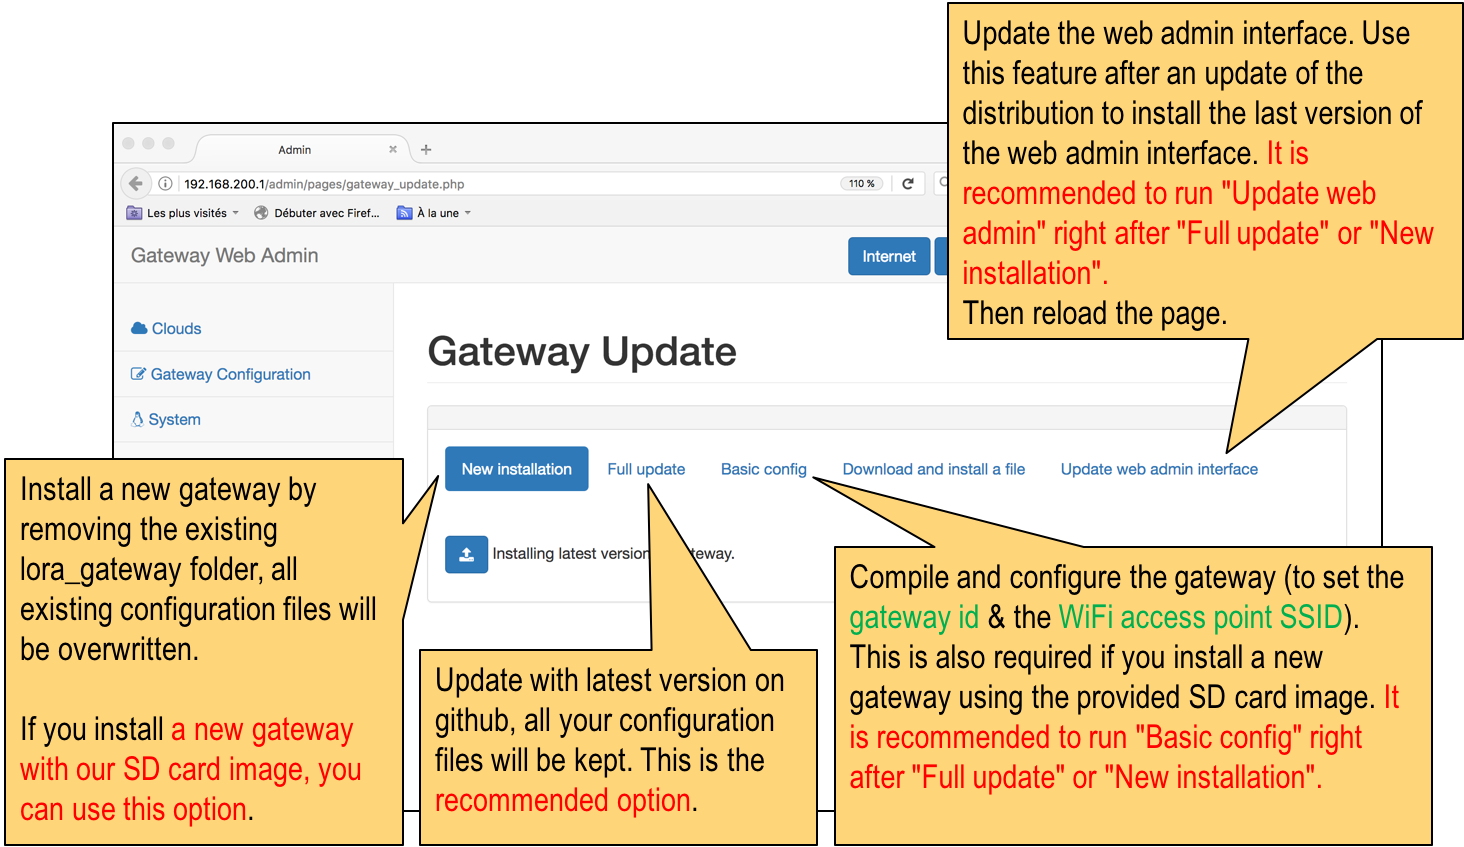
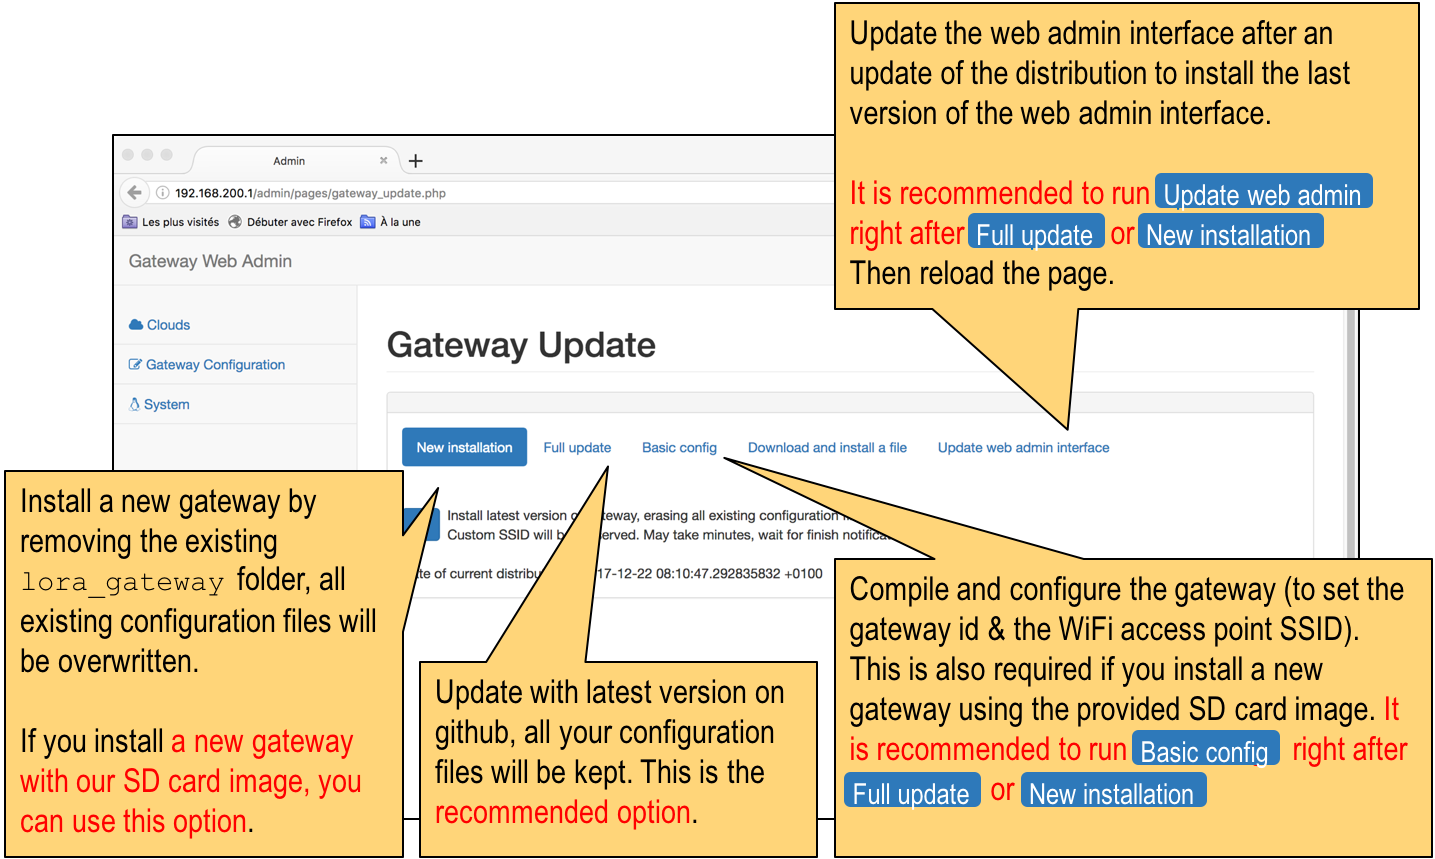
update web admin interface

Changed region(s): [[0.0, 0.0, 1.0, 1.0], [0.276, 0.3684, 0.5213, 0.4298], [0.6746, 0.6139, 0.7359, 0.6446]]

diff --git a/gw_full_latest/gw_web_admin/admin/libs/js/functions.js b/gw_full_latest/gw_web_admin/admin/libs/js/functions.js
@@ -1123,10 +1123,10 @@ $(function () {
             //erase message after 5 seconds
 	    setTimeout(function() {
   		$('#system_msg').html("");
+  		window.location.reload();
 	     },5000);
         });
         $('#hostapd_form')[0].reset();
-        
     });
 
 //#######################

diff --git a/gw_full_latest/gw_web_admin/admin/pages/gateway_update.php b/gw_full_latest/gw_web_admin/admin/pages/gateway_update.php
@@ -69,10 +69,21 @@ require 'header.php';
                             	<div class="tab-pane fade in active" id="new_install-pills">
                                    	</br></br>
                                    
-                                   		<p>
-                                   			<button id="btn_gw_new_install" type="button" class="btn btn-primary" href="process.php?gw_new_install=true">   <span class="fa fa-upload"></button>
-                                   			Installing latest version of gateway, erasing existing configuration. May take 1 minute, wait for finish notification.
-                                   		</p>
+                                   		<table border="0">
+                                   		<tr>
+                                   			<td rowspan="2">
+                                   				<button id="btn_gw_new_install" type="button" class="btn btn-primary" href="process.php?gw_new_install=true">   <span class="fa fa-upload"></button>
+                                   			</td>
+                                   			<td>                                   				
+                                   				&nbsp;&nbsp;Install latest version of gateway, <strong>erasing</strong> all existing configuration file. 
+                                   			</td>	
+                                   		</tr>
+                                   		<tr>
+                                   			<td>	
+                                   				&nbsp;&nbsp;Custom SSID will be preserved. May take minutes, wait for finish notification.
+                                   			</td>
+                                   		</tr>		
+                                   		</table>
 
 										</br>
 										
@@ -90,10 +101,21 @@ require 'header.php';
                         		<div class="tab-pane fade" id="full_update-pills">
                                    	</br></br>
                                    
-                                   		<p>
-                                   			<button id="btn_gw_full_update" type="button" class="btn btn-primary" href="process.php?gw_full_update=true">   <span class="fa fa-upload"></button>
-                                   			Updating to latest version of gateway, preserving your local configuration files. May take 1 minute, wait for finish notification.
-                                   		</p>
+                                   		<table border="0">
+                                   		<tr>
+                                   			<td rowspan="2">
+                                   				<button id="btn_gw_full_update" type="button" class="btn btn-primary" href="process.php?gw_full_update=true"> <span class="fa fa-upload"></button>
+                                   			</td>
+                                   			<td>
+                                   				&nbsp;&nbsp;Update to latest version of gateway, <strong>preserving</strong> your local configuration files.
+                                   			</td>	
+                                   		</tr>
+                                   		<tr>
+                                   			<td>	
+                                   				&nbsp;&nbsp;Custom SSID will be preserved. May take minutes, wait for finish notification.
+                                   			</td>
+                                   		</tr>		
+                                   		</table>
 
 										</br>
 										<?php
@@ -113,12 +135,12 @@ require 'header.php';
                                    
                                    		<p>
                                    			<button id="btn_gw_basic_conf" type="button" class="btn btn-primary" href="process.php?gw_basic_conf=true">   <span class="fa fa-edit"></button>
-                                   			Configure your gateway after new installation/update or after changing PA_BOOST settings.
+                                   			Configure your gateway after new installation/update or after changing PA_BOOST/downlink settings.
                                    		</p>
 
 										</br>
 										<?php
-											$current_install_date=exec('stat --format=%y /home/pi/lora_gateway/gateway_id.txt 2>/dev/null');
+											$current_install_date=exec('stat --format=%y /home/pi/lora_gateway/lora_gateway 2>/dev/null');
 											
 											if ($current_install_date=='') {
 												echo "Date of last configuration undefined";
@@ -163,7 +185,7 @@ require 'header.php';
                     
                                    		<p>
                                    			<button id="btn_update_web_admin" type="button" class="btn btn-primary" href="process.php?update_web_admin=true">   <span class="fa fa-upload"></button>
-                                   			Updating to latest version of gateway web admin interface. May take 30s, wait for finish notification.
+                                   			Update to latest version of gateway web admin interface. May take 1 minute, wait for finish notification.
                                    		</p>    
 
 										</br>

diff --git a/gw_full_latest/gw_web_admin/admin/pages/system.php b/gw_full_latest/gw_web_admin/admin/pages/system.php
@@ -67,10 +67,10 @@ require 'header.php';
             				<p>
 								<?php 
 									if(is_file("/etc/network/interfaces_not_ap")){
-										echo "&nbsp;&nbsp;&nbsp;Gateway configuration file is for Access Point mode";
+										echo "&nbsp;&nbsp;&nbsp;&nbsp;Gateway configuration file is for Access Point mode";
 									}
 									else{
-										echo "&nbsp;&nbsp;&nbsp;Gateway configuration file is for WiFi client mode";
+										echo "&nbsp;&nbsp;&nbsp;&nbsp;Gateway configuration file is for WiFi client mode";
 									}
 								?>                            
                             </p>
@@ -86,12 +86,12 @@ require 'header.php';
                             						<fieldset>
                                 						<div class="form-group">
                                 							<label>SSID</label>
-                                							<input id="ssid" class="form-control" placeholder="WAZIUP_PI_GW_XXXXXXXXXX" name="ssid" type="text" value="">
-                                							<p><font color="grey">where XXXXXXXXXX is the last 5 bytes of your MAC Ethernet interface address.</font></p>
+                                							<input id="ssid" class="form-control" placeholder="current SSID is <?php $ssid=exec('grep ssid /etc/hostapd/hostapd.conf | cut -d "=" --field=2'); echo $ssid; ?>" name="ssid" type="text" value="">	
+                                							<p><font color="grey">default SSID would be WAZIUP_PI_GW_<?php $gw_id=exec('cat /home/pi/lora_gateway/gateway_id.txt | cut -c 7-'); echo $gw_id; ?></font></p>
                                 						</div>
                                 						<div class="form-group">
                                 							<label>WPA Passphrase</label>
-                                    						<input id="wpa_phrasepass" class="form-control" placeholder="wpa_passphrase" name="wpa_phrasepass" type="password" value="">
+                                    						<input id="wpa_phrasepass" class="form-control" placeholder="wpa_passphrase" name="wpa_phrasepass" type="text" value="">
                                 						</div>
 
                                 						<center>
